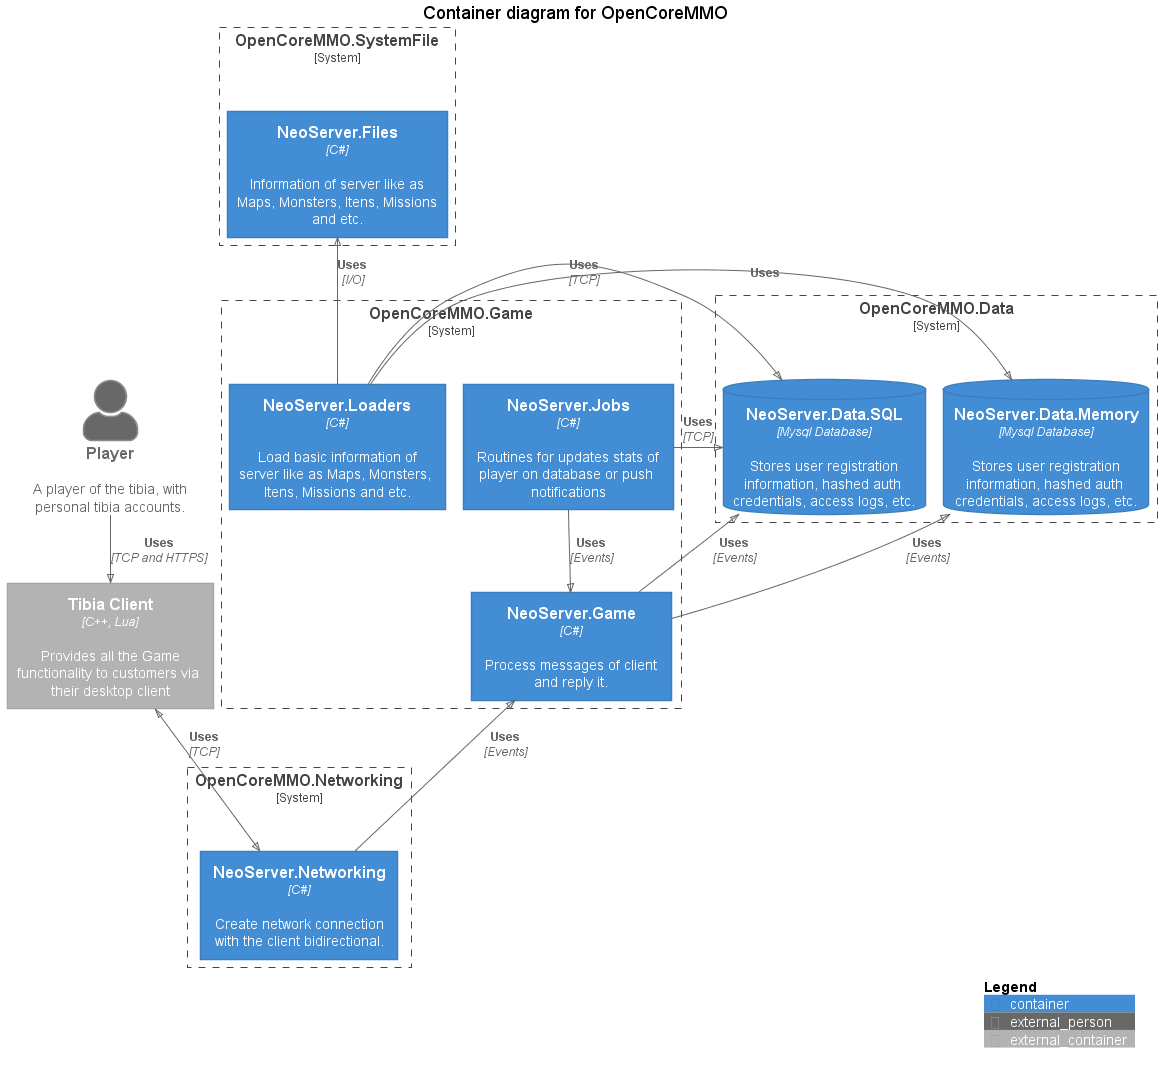
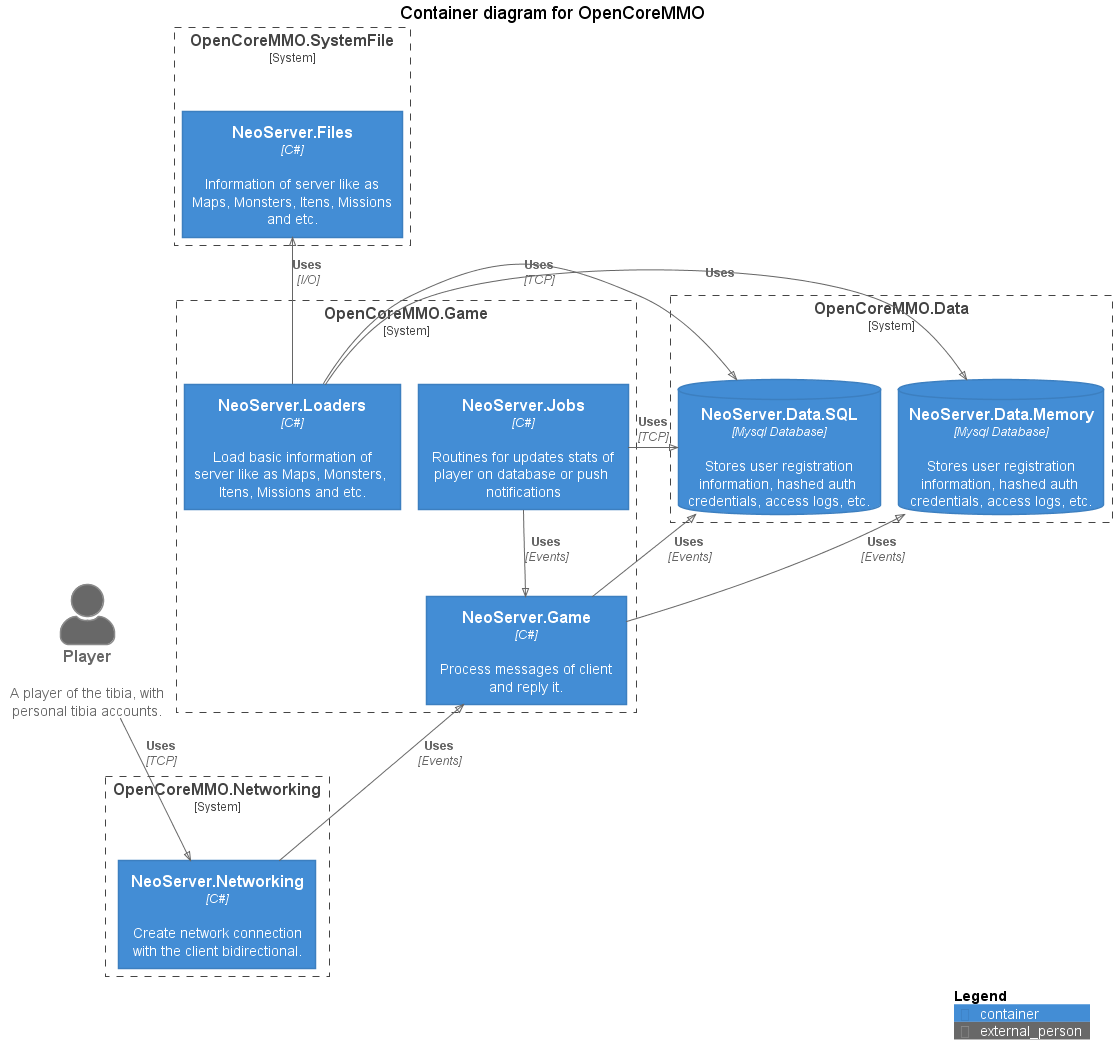
feat: update diagram without container client.

diff --git a/src/NeoServer.Architecture/Diagrams/ContainerDiagram.cs b/src/NeoServer.Architecture/Diagrams/ContainerDiagram.cs
@@ -10,7 +10,6 @@ public class ContainerDiagram : DiagramBuildRunner
     protected override IEnumerable<Structure> Structures() => new Structure[]
     {
         People.Customer,
-        Containers.Client,
         new SoftwareSystemBoundary("c1", "OpenCoreMMO.Networking", Containers.NetworkingServer),
         new SoftwareSystemBoundary("c2", "OpenCoreMMO.Game",
             Containers.GameServer,
@@ -25,9 +24,8 @@ public class ContainerDiagram : DiagramBuildRunner
 
     protected override IEnumerable<Relationship> Relationships() => new[]
     {
-        (People.Customer > Containers.Client)["Uses", "TCP and HTTPS"][Position.Down],
+        (People.Customer > Containers.NetworkingServer)["Uses", "TCP"][Position.Down],
         
-        (Containers.Client >= Containers.NetworkingServer)["Uses", "TCP"][Position.Down],
         (Containers.NetworkingServer > Containers.GameServer)["Uses", "Events"][Position.Up],
         (Containers.GameServer > Containers.SqlDatabase)["Uses", "Events"][Position.Neighbor],
         (Containers.GameServer > Containers.MemoryDatabase)["Uses", "Events"][Position.Neighbor],
